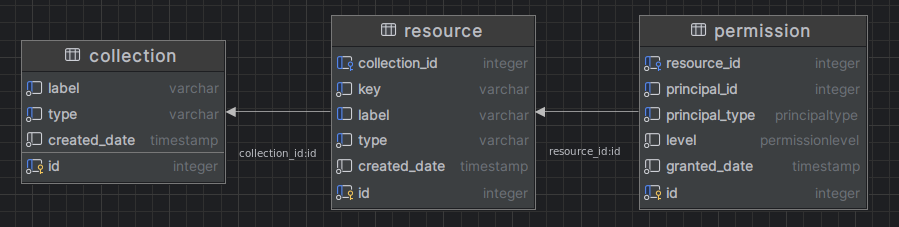
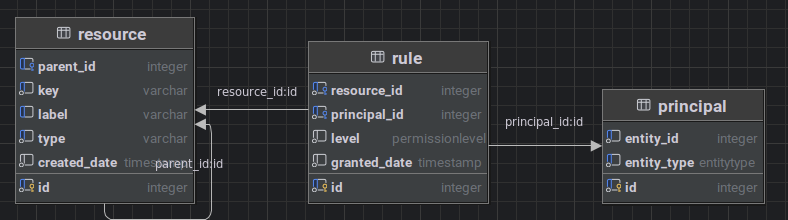
PEP-9: Update the ACL registry to describe resource trees
+ Remove references to the old 'collection'.

diff --git a/peps/pep-9.md b/peps/pep-9.md
@@ -88,11 +88,12 @@ The ACR registry will be implemented as RDBMS tables with the following schema (
 
 **Figure 3:** Authorization service ACR registry table schema.
 
-The ACR Registry will store ACRs for all applications in the EDI ecosystem. We will use a structure with *resources* and *rules*. A  resource contains zero to many rules. Each permission provides *read*, *write* or *chanagePermission* privileges to the principal associated with the ACR. The principal references either a user profile or a group, both referenced by an EDI-ID.
+The ACR Registry will store ACRs for all applications in the EDI ecosystem. We will use a structure with *resources*, *rules* and *principals*. A resource may be a child of another resource, and may contain zero to many rules. Each rule provides *read*, *write* or *changePermission* privileges to the principal associated with the ACR. The principal references either a user profile or a group. A user profile can be a regular user or a system level user, such as the "public" user; both regular users and system users will have a unique EDI ID.
 
 #### Resource
 
-- `resource.collection_id` - A reference to the collection to which the resource belongs.
+- `resource.id` - Row ID of the resource (referenced in rules).
+- `resource.parent_id` - An optional reference to a parent resource, making this resource a child of the parent resource.
 - `resource.key` - A unique system identifier for the resource.
 - `resource.label` - A human-readable name for the resource.
 - `resource.type` - The resource type.
@@ -100,12 +101,19 @@ The ACR Registry will store ACRs for all applications in the EDI ecosystem. We w
 
 #### Rule
 
+- `rule.id` - Row ID of the rule.
 - `rule.resource_id` - A reference to the resource to which the rule applies.
-- `rule.principal_id` - A reference to the user profile or group to which the permission is granted.
-- `rule.level` - The permission granted by this rule (enum of `read`, `write` or `changePermission`).
+- `rule.principal_id` - A reference to the user profile or group to which the rule is granted.
+- `rule.level` - The access level granted by this rule (enum of `read`, `write` or `changePermission`).
 - `rule.granted_date` - The grant date and time of the rule.
 
-For example, if we are tracking permissions for a data package with metadata and data entities, the `collection.label` might be `knb-lter-bes.1234.5`, and the `collection.type` would be `package`. Linked to this collection would be a number of resources. Each resource would have a `resource.collection_id` referencing the `knb-lter-bes.1234.5` collection. The `resource.label` might be `water.csv` while the `resource.key` would be the PASTA URI `https://pasta.lternet.edu/package/data/eml/knb-lter-bes.1234.5/3fb3ef2e559fa42956b69226e9069058`. The `resource.type` would be `data`. Permissions would then be linked to these resources via `permission.resource_id`. Each permission would have a `permission.principal_id` of a user profile or user group, and a `permission.principal_type` of either `PROFILE` or `GROUP`. The `permission.level` would specify the level of access granted to the principal, and would be `read`, `write` or `changePermission`.
+#### Principal
+
+- `principal.id` - Row ID of the principal (referenced in rules).
+- `principal.entity_id` - The unique identifier of the principal (either a user profile or group).
+- `principal.entity_type` - The principal class (enum of `PROFILE` or `GROUP`) of the principal.
+
+For example, if we are tracking permissions for a data package with metadata and data entities, we would set up a tree of resources. The `resource.label` of the root resource might be `knb-lter-bes.1234.5`, and the `resource.type` would be `package`. To this parent, we would add two child resources with labels `Data` and `Metadata`. These child resources would then have their own children, representing the individual data and metadata entities in the package. So a resource with parent `Data` might have `resource.label` of `water.csv` while the `resource.key` would be the PASTA URI `https://pasta.lternet.edu/package/data/eml/knb-lter-bes.1234.5/3fb3ef2e559fa42956b69226e9069058`. The `resource.type` would be `data`. Rules would then be linked to these resources via `rule.resource_id`. Each rule would have a `rule.principal_id` of a user profile or user group. The `rule.level` would specify the level of access granted to the principal, and would be `read`, `write` or `changePermission`. The principal would be linked to the `principal.id` of the principal table. The `principal.entity_id` would be the unique identifier of the principal, which could be a user profile or group, and `principal.entity_type` would be `PROFILE` or `GROUP`.
 
 
 ### Authorization algorithm
@@ -158,6 +166,11 @@ Use case:
 4. The *authorization service* adds the ACL ACRs to the ACR registry.
 5. The *authorization service* returns a success message to client.
 
+<<<<<<< Updated upstream
+=======
+Notes: This use case supports the existing PASTA data package upload process. Parsing and extracting ACRs from the EML document will require supporting ACRs in both the main EML document and the additional metadata section. The principal owner of the data package is not currently represented in the existing `access_matrix`. This should, however, change for consistency: the principal owner should be added into the ACR registry with the "changePermission" permission. This method should create a "Data Package" resource tree.
+
+>>>>>>> Stashed changes
 ```
 POST: /auth/v1/eml
 
@@ -183,7 +196,7 @@ Goal: To parse a valid `<access>` element and add its ACRs to the *authorization
 
 Use case:
 
-1. A client sends an `<access>` element ACL and the resource_key, resource_label, resource_type, and collection_id to the *authorization service* to register ACRs.
+1. A client sends an `<access>` element ACL and the resource_key, resource_label, resource_type to the *authorization service* to register ACRs.
 2. The *authorization service* verifies that the requesting principal is authorized to execute the method.
 3. The *authorization service* parses the `<access>` element ACL and extracts the ACRs.
 4. The *authorization service* adds the ACL ACRs to the ACR registry.
